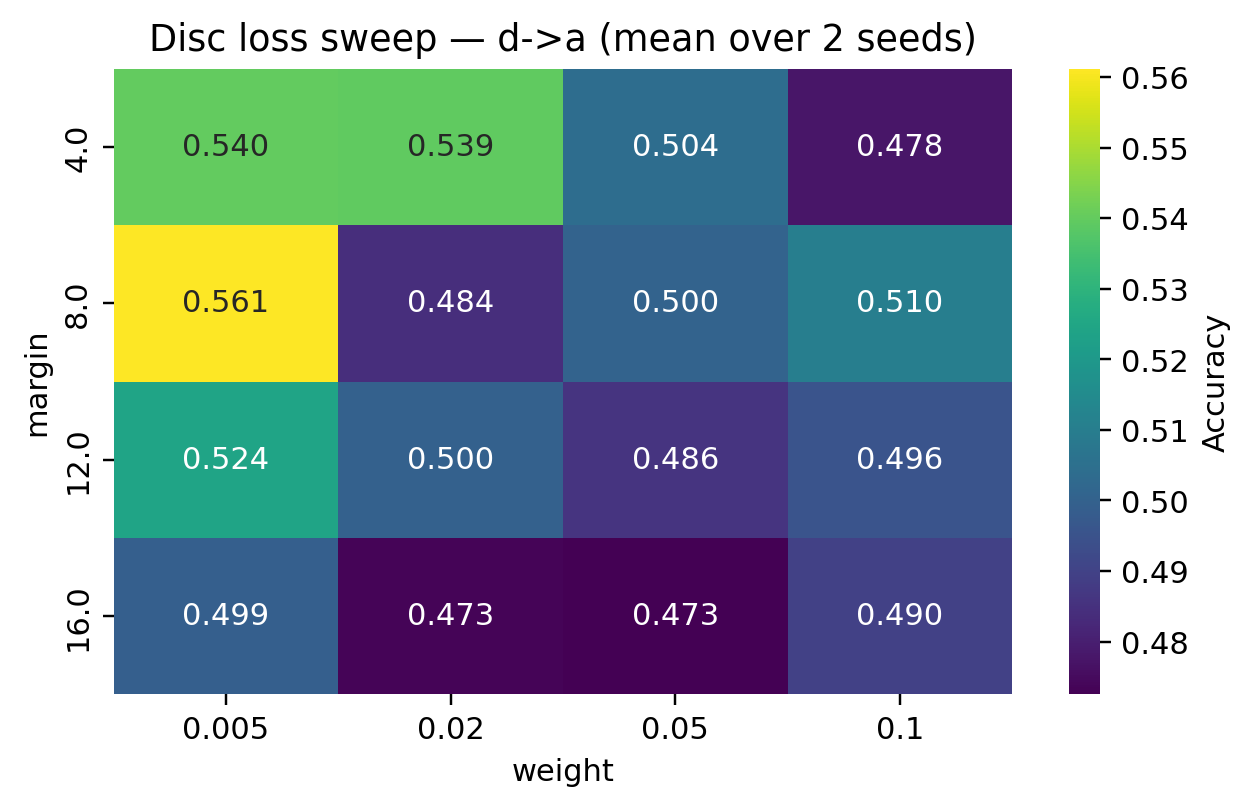
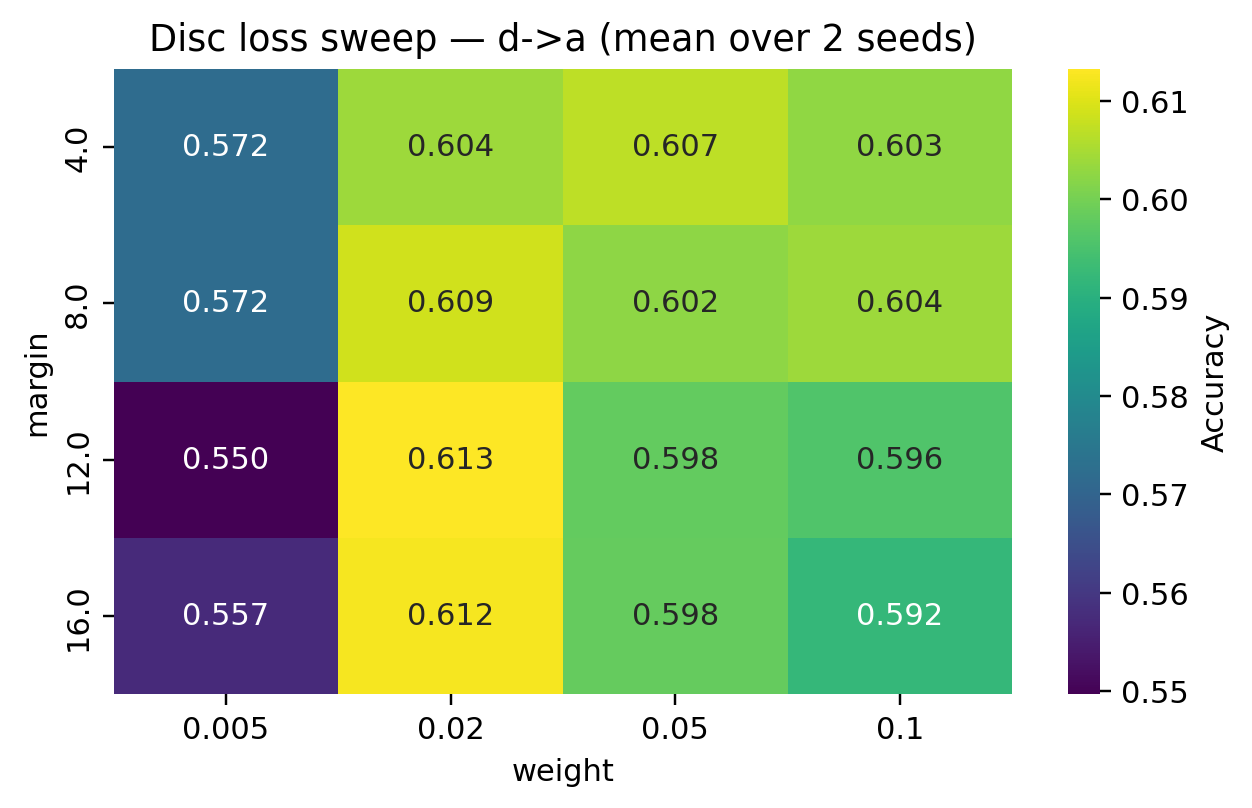
Refresh reproducible results and delivery docs

diff --git a/src/faultdg/config.py b/src/faultdg/config.py
@@ -54,6 +54,18 @@ def _relative_or_original(root: Path, value: str | Path) -> str:
         return str(path)
 
 
+def _relativize_project_path(root: Path, value: Any) -> Any:
+    if not isinstance(value, str):
+        return value
+    path = Path(value)
+    if not path.is_absolute():
+        return value
+    try:
+        return str(path.resolve().relative_to(root.resolve()))
+    except Exception:
+        return value
+
+
 def make_serializable_config(config: Dict[str, Any]) -> Dict[str, Any]:
     payload = copy.deepcopy(config)
     meta = payload.get("_meta")
@@ -61,6 +73,14 @@ def make_serializable_config(config: Dict[str, Any]) -> Dict[str, Any]:
         return payload
 
     project_root = Path(meta.get("project_root", ".")).resolve()
+    experiment = payload.get("experiment")
+    if isinstance(experiment, dict) and "output_dir" in experiment:
+        experiment["output_dir"] = _relativize_project_path(project_root, experiment.get("output_dir"))
+
+    data = payload.get("data")
+    if isinstance(data, dict) and "root" in data:
+        data["root"] = _relativize_project_path(project_root, data.get("root"))
+
     payload["_meta"] = {
         "config_path": _relative_or_original(project_root, meta.get("config_path", "")),
         "config_dir": _relative_or_original(project_root, meta.get("config_dir", "")),

diff --git a/scripts/export_delivery_package.py b/scripts/export_delivery_package.py
@@ -70,18 +70,26 @@ def copy_tree(src: Path, dest: Path) -> None:
             "checkpoints",
             "histories",
             "predictions",
+            "adaptive_search",
             ".git",
             ".faultdg_tmp",
         ),
     )
 
 
+def portable_path(path: Path) -> str:
+    try:
+        return str(path.resolve().relative_to(PROJECT_ROOT))
+    except Exception:
+        return str(path)
+
+
 def build_manifest(output_root: Path, dest: Path) -> dict[str, object]:
     return {
         "created_at": time.strftime("%Y-%m-%d %H:%M:%S"),
-        "source_repo": str(PROJECT_ROOT),
-        "output_root": str(output_root),
-        "delivery_root": str(dest),
+        "source_repo": ".",
+        "output_root": portable_path(output_root),
+        "delivery_root": portable_path(dest),
         "result_directories": RESULT_DIRS,
         "root_files": ROOT_FILES,
         "root_dirs": ROOT_DIRS,

diff --git a/scripts/run_disc_sweep.py b/scripts/run_disc_sweep.py
@@ -55,7 +55,7 @@ def parse_args() -> argparse.Namespace:
 def main() -> None:
     args = parse_args()
     config = load_config(args.config)
-    apply_runtime_overrides(config, data_root=args.data_root)
+    apply_runtime_overrides(config, data_root=args.data_root, output_dir=args.output_dir)
     if hasattr(torch, "set_float32_matmul_precision"):
         torch.set_float32_matmul_precision("high")
 

diff --git a/scripts/run_module_ablation.py b/scripts/run_module_ablation.py
@@ -118,7 +118,7 @@ def parse_args() -> argparse.Namespace:
 def main() -> None:
     args = parse_args()
     config = load_config(args.config)
-    apply_runtime_overrides(config, data_root=args.data_root)
+    apply_runtime_overrides(config, data_root=args.data_root, output_dir=args.output_dir)
     seeds = args.seeds or list(config["experiment"].get("seeds", [42]))
     if hasattr(torch, "set_float32_matmul_precision"):
         torch.set_float32_matmul_precision("high")

diff --git a/scripts/run_pu_multisource.py b/scripts/run_pu_multisource.py
@@ -78,7 +78,7 @@ def build_tasks(mode: str) -> list:
 def main() -> None:
     args = parse_args()
     config = load_config(args.config)
-    apply_runtime_overrides(config, data_root=args.data_root)
+    apply_runtime_overrides(config, data_root=args.data_root, output_dir=args.output_dir)
     methods = args.methods or list(config["experiment"]["methods"])
     if hasattr(torch, "set_float32_matmul_precision"):
         torch.set_float32_matmul_precision("high")

diff --git a/scripts/run_speed_ablation.py b/scripts/run_speed_ablation.py
@@ -94,7 +94,7 @@ def build_variants(base_config: dict, source_rpm: float, target_rpm: float) -> l
 def main() -> None:
     args = parse_args()
     config = load_config(args.config)
-    apply_runtime_overrides(config, data_root=args.data_root)
+    apply_runtime_overrides(config, data_root=args.data_root, output_dir=args.output_dir)
     seed_everything(int(config["training"]["seed"]))
     if hasattr(torch, "set_float32_matmul_precision"):
         torch.set_float32_matmul_precision("high")

diff --git a/docs/final_delivery.md b/docs/final_delivery.md
@@ -178,19 +178,19 @@
 <!-- AUTO:ABLATION:start -->
 | variant | accuracy |
 | --- | ---: |
-| fusion_adaptive_disc | 0.5183 |
-| fusion_adaptive_speed | 0.4908 |
+| fusion_adaptive_disc_speed | 0.5451 |
+| fusion_adaptive_disc | 0.5257 |
+| fusion_adaptive_speed | 0.4872 |
 | fusion_adaptive | 0.4446 |
-| fusion_adaptive_disc_speed | 0.4183 |
 | fusion_fixed | 0.4106 |
 <!-- AUTO:ABLATION:end -->
 
 单 seed、保守速度缩放系数下，5 个变体给出的结论是：
 
 1. `fusion_fixed → fusion_adaptive`：**+0.0341**，说明结构搜索本身能带来稳定增益。
-2. `fusion_adaptive → fusion_adaptive_disc`：**+0.0737**，分类导向判别损失是这组消融里最明显的收益来源。
-3. `fusion_adaptive → fusion_adaptive_speed`：**+0.0462**，单开速度缩放增强也有帮助。
-4. `fusion_adaptive_disc → fusion_adaptive_disc_speed`：**−0.1001**，说明在这组保守设定下，`disc + speed_aug` 直接叠加并不单调，存在明显耦合冲突。
+2. `fusion_adaptive → fusion_adaptive_disc`：**+0.0810**，分类导向判别损失仍然是这组消融里最明显的收益来源。
+3. `fusion_adaptive → fusion_adaptive_speed`：**+0.0425**，单开速度缩放增强也有帮助。
+4. `fusion_adaptive_disc → fusion_adaptive_disc_speed`：**+0.0194**，在当前复现实验下，判别损失与保守速度缩放的叠加是正向的，联合变体取得 5 个变体中的最高准确率。
 
 > 说明 1：该消融是**单 seed + 保守 speed scale** 的模块级趋势验证。这里速度缩放采用 `sqrt(1500/900) ≈ 1.291`，目的是避免单任务单次实验被过激缩放扰乱。
 > 说明 2：正式主表使用真实比例 `1500/900 ≈ 1.667`、完整的 3-seed 评测和当前默认训练配方，主方法在 `speed_shift` 上的最终准确率是 **`0.6064 ± 0.0050`**（详见 §6），因此这里的 5 变体结果应解读为"模块趋势检查"，而不是主表数值的直接替代。
@@ -203,10 +203,10 @@
 - 用途：定位 Module-2 的最佳超参组合，并验证主方法选取的默认值 `(margin=8, weight=0.02)` 是否处在合理区域。
 
 <!-- AUTO:SWEEP:start -->
-- 最佳 `(margin=8.0, weight=0.005)`，mean accuracy = 0.5612 ± 0.0368 on `d->a`，seeds = `[42, 7]`。
+- 最佳 `(margin=12.0, weight=0.02)`，mean accuracy = 0.6133 ± 0.0088 on `d->a`，seeds = `[42, 7]`。
 <!-- AUTO:SWEEP:end -->
 
-需要注意，`run_disc_sweep.py` 为了隔离 Module-2 的影响，**显式关闭了 adaptive structure search**，因此它和 §6 主表不是一套完全同构的训练配方。扫描表明在这个"固定结构、仅扫判别损失超参"的子问题上，`(margin=8, weight=0.005)` 的 2-seed 均值最高（`0.5612 ± 0.0368`）；而正式主表在完整默认配方下使用 `(margin=8, weight=0.02)`，`speed_shift` 达到 **`0.6064 ± 0.0050`**。因此这里把 `weight=0.005` 作为单任务可选调优档位保留在 `outputs/pu_disc_sweep/results/best_config.json`，主交付配置仍维持 `0.02`。
+需要注意，`run_disc_sweep.py` 为了隔离 Module-2 的影响，**显式关闭了 adaptive structure search**，因此它和 §6 主表不是一套完全同构的训练配方。当前重跑结果表明，在这个“固定结构、仅扫判别损失超参”的子问题上，最佳组合是 **`(margin=12, weight=0.02)`**，2-seed 均值 **`0.6133 ± 0.0088`**。这说明当前主配置里的 `weight=0.02` 处在稳定的高值区，`margin` 则在固定结构场景下更偏向 12 而不是 8。正式主表仍沿用统一交付配置 `(margin=8, weight=0.02)`，对应 `speed_shift` 结果是 **`0.6064 ± 0.0050`**；如果后续只针对 `d → a` 做单任务进一步调优，`margin=12` 是优先尝试的候选值。
 
 ## 10. 12 对全跨工况矩阵 + 多源域泛化
 
@@ -389,6 +389,8 @@ python scripts/check_runtime.py
 ```bash
 FAULTDG_ENV_NAME=torch21new bash scripts/run_all.sh
 ```
+
+如果需要手动指定 GPU，可以在命令前加 `CUDA_VISIBLE_DEVICES=<gpu_id>`。脚本本身不依赖固定 GPU 数量，单卡即可运行。
 
 ### 13.2 下载数据
 

diff --git a/docs/reproduction_guide.md b/docs/reproduction_guide.md
@@ -16,7 +16,7 @@ pwd
 - Python：`3.8`
 - PyTorch：`2.3.x`
 - 操作系统：Linux
-- 显卡：有 CUDA 更好；无 CUDA 也能运行，但全量实验会明显变慢
+- 显卡：单卡 CUDA 即可；无 CUDA 也能运行，但全量实验会明显变慢
 
 ### 1.2 用 conda 创建环境
 
@@ -39,7 +39,7 @@ pip install -e . --no-deps
 pip install numpy pandas pyyaml scikit-learn scipy matplotlib seaborn tqdm
 ```
 
-如果需要 GPU 版 PyTorch，可按本机 CUDA 版本单独安装官方对应包；本次结果是在 `torch 2.3.0` 环境下生成的。
+如果需要 GPU 版 PyTorch，可按本机 CUDA 版本单独安装官方对应包；本次结果是在 `torch 2.3.0` 环境下生成的。脚本默认只使用一个可见 GPU，不依赖固定的 GPU 数量。
 
 环境创建完成后，建议立即执行一次：
 
@@ -78,6 +78,14 @@ conda activate faultdg
 ```bash
 FAULTDG_ENV_NAME=torch21new bash scripts/run_all.sh
 ```
+
+如果机器上有多张 GPU，而只想指定其中一张运行，可以在命令前加：
+
+```bash
+CUDA_VISIBLE_DEVICES=0 python scripts/run_delivery_pipeline.py --download-data
+```
+
+如果只有一张 GPU，或准备在 CPU 上运行，不需要额外改代码。
 
 ## 2. 环境自检
 
@@ -315,8 +323,8 @@ FAULTDG_ENV_NAME=torch21new bash scripts/run_all.sh
 ```bash
 python scripts/run_delivery_pipeline.py \
   --download-data \
-  --output-root reproduced_outputs \
-  --doc reproduced_docs/final_delivery.md
+  --output-root outputs_rerun \
+  --doc docs/final_delivery_rerun.md
 ```
 
 分步脚本也都支持 `--output-dir`；涉及数据位置的脚本支持 `--data-root`。

diff --git a/README.md b/README.md
@@ -84,6 +84,7 @@ python scripts/run_delivery_pipeline.py --download-data
 - 结果是在 `Python 3.8 + torch 2.3.0` 环境下生成的。
 - 公开数据集不包含在仓库当前保留范围内，需单独下载到 `data/pu/ntu/`。
 - 如果换机器复现，先跑 `scripts/check_runtime.py` 或直接用 `scripts/run_delivery_pipeline.py --download-data`。
+- 脚本默认只使用一个可见 GPU，不依赖固定 GPU 数量；如果要手动指定设备，可在命令前加 `CUDA_VISIBLE_DEVICES=0`。
 - 下面所有命令默认都在仓库根目录执行。
 
 ## 一键复现